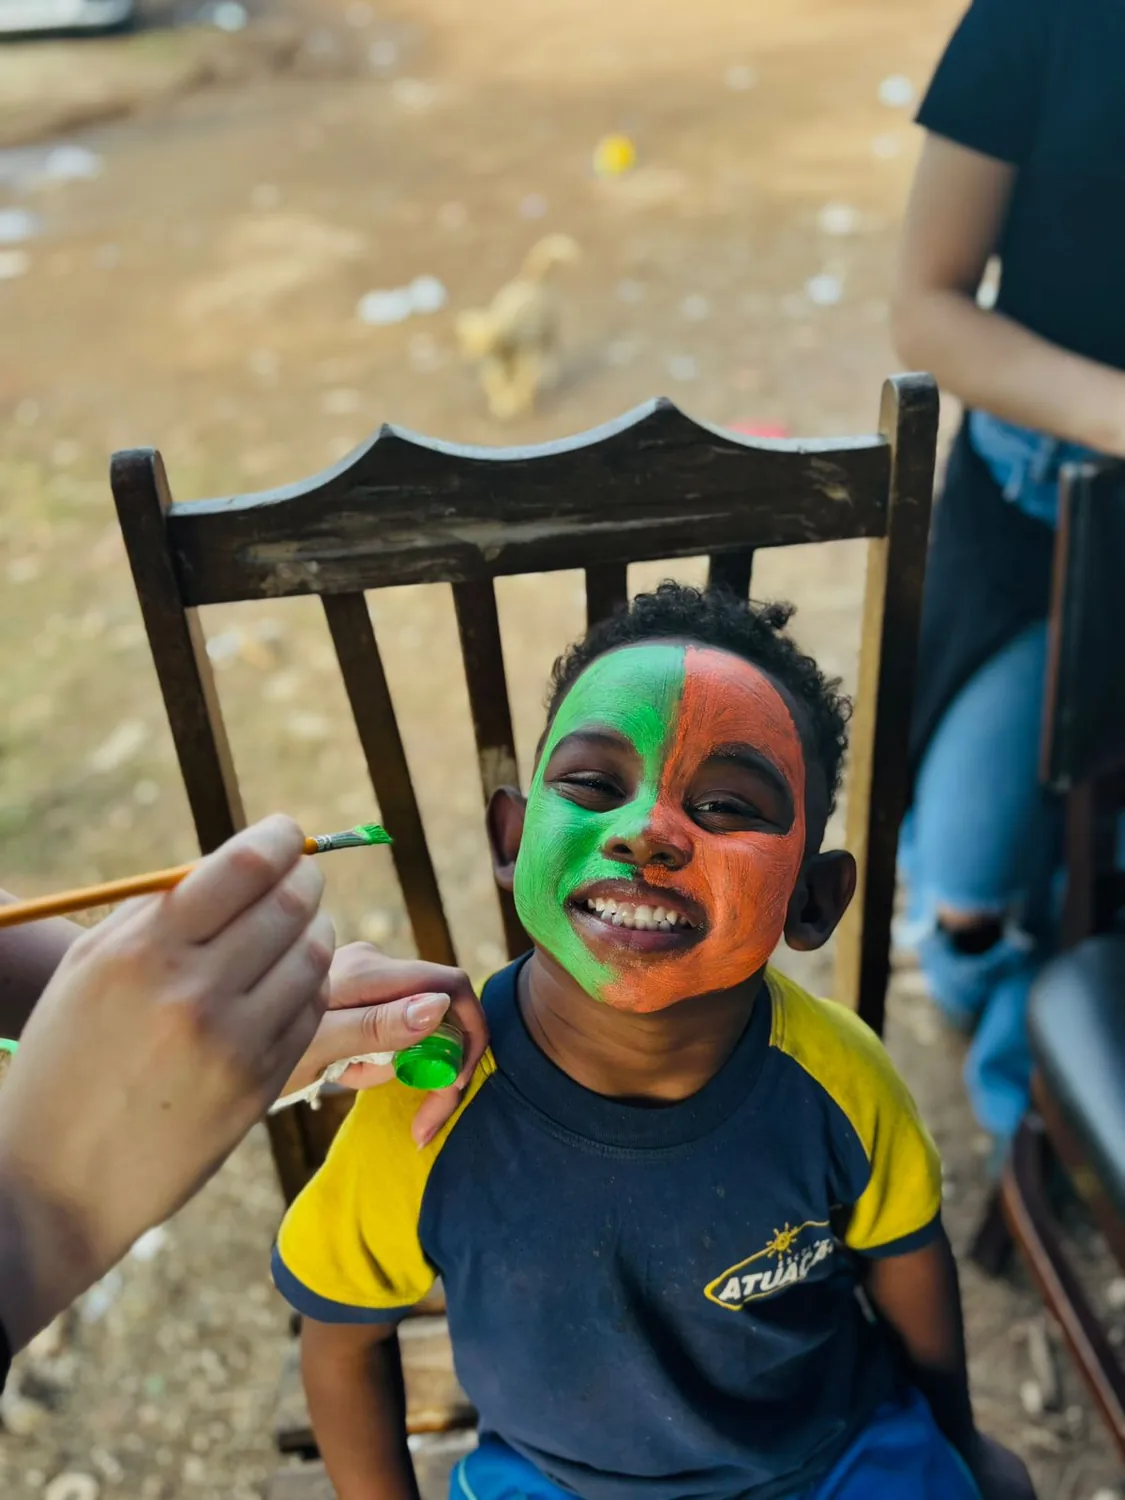
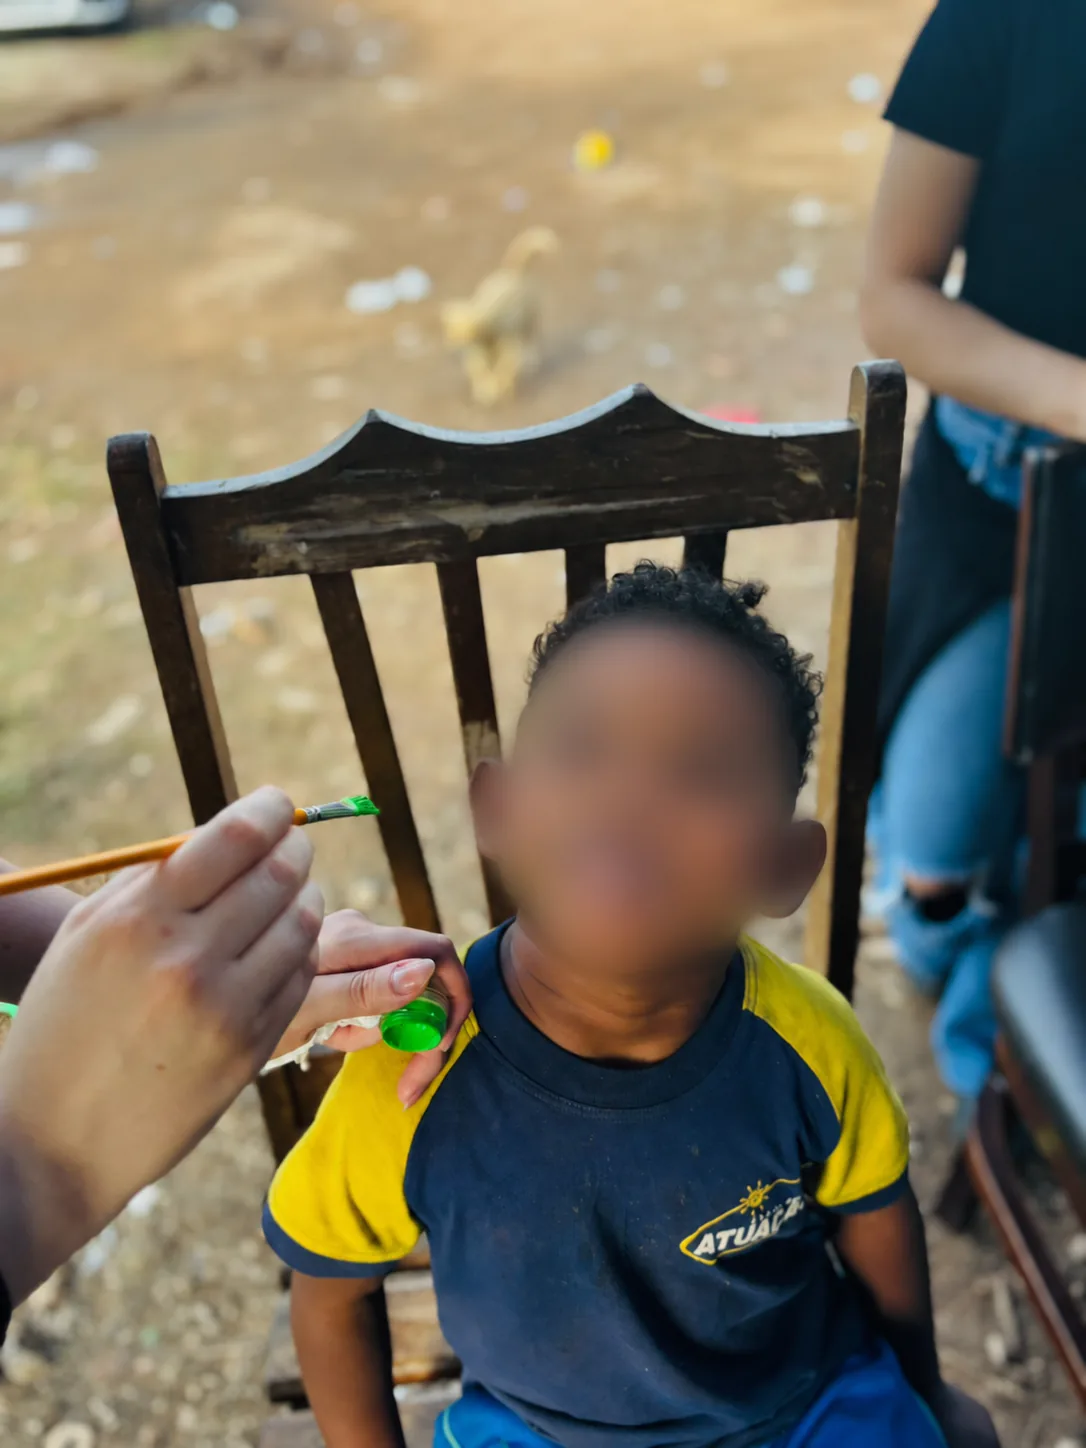
Preview: Playground — blurred-face version of the face-paint photo; stronger chip tracking
- swapped volunteering-02 for the disclosure-safe version (child's face blurred) from Drive
- also removed the Teia do Bem Meet-screenshot tile (8 people's names legible — flagged in an earlier review)
- .chip.is-current now a soft accent-fill pill with a .38s transition so the auto-scroll's current category reads clearly; flow speed 46 -> 72 px/s and the 'current' reference line moved to 42% so the chip changes category at a visible pace
- ?v=20260908x

Changed region(s): [[0.4254, 0.404, 0.7597, 0.6837], [0.6685, 0.808, 0.7293, 0.8391], [0.6381, 0.8391, 0.6685, 0.8702]]

diff --git a/index.html b/index.html
@@ -28,7 +28,7 @@
 <link href="https://fonts.googleapis.com/css2?family=Caveat:wght@500;600&family=Fraunces:opsz,wght@9..144,400;9..144,500;9..144,600&family=Inter:wght@400;500;600&display=swap" rel="stylesheet">
 <link rel="stylesheet" href="https://cdn.jsdelivr.net/gh/devicons/devicon@v2.16.0/devicon.min.css">
 
-<link rel="stylesheet" href="style.css?v=20260908w">
+<link rel="stylesheet" href="style.css?v=20260908x">
 
 <script type="application/ld+json">
 {
@@ -548,10 +548,6 @@
       <span class="art__frame"><img src="assets/images/playground/volunteering/volunteering-03.webp" alt="Giovanna Ribas volunteering at a PUCPR event" loading="lazy" width="1500" height="844"></span>
       <span class="art__cap" data-i18n="pg_vol">Volunteering &amp; events <i>Community</i></span>
     </button>
-    <button class="art" type="button" data-kind="community" data-title="TEIA do Bem — social media" data-cat="Volunteering &amp; events" data-full="assets/images/playground/volunteering/volunteering-01.webp">
-      <span class="art__frame"><img src="assets/images/playground/volunteering/volunteering-01.webp" alt="Volunteering material Giovanna Ribas worked on" loading="lazy" width="1500" height="654"></span>
-      <span class="art__cap" data-i18n="pg_vol">Volunteering &amp; events <i>Community</i></span>
-    </button>
     <button class="art" type="button" data-kind="community" data-title="Volunteering &amp; events" data-cat="Volunteering &amp; events" data-full="assets/images/playground/volunteering/volunteering-02.webp">
       <span class="art__frame"><img src="assets/images/playground/volunteering/volunteering-02.webp" alt="Giovanna Ribas at a volunteering event" loading="lazy" width="1125" height="1500"></span>
       <span class="art__cap" data-i18n="pg_vol">Volunteering &amp; events <i>Community</i></span>
@@ -758,6 +754,6 @@
   </div>
 </div>
 
-<script src="script.js?v=20260908w"></script>
+<script src="script.js?v=20260908x"></script>
 </body>
 </html>

diff --git a/style.css b/style.css
@@ -829,11 +829,18 @@ p:last-child { margin-bottom: 0; }
   font: 500 12px/1 var(--mono); letter-spacing: .04em;
   padding: 8px 13px; border: 1px solid var(--line); border-radius: 999px;
   background: var(--paper); color: var(--ink-2); cursor: pointer;
-  transition: border-color .2s ease, color .2s ease, background .2s ease;
+  transition: background .38s ease, border-color .38s ease, color .38s ease, transform .25s ease;
 }
-.chip:hover, .chip.is-current { border-color: var(--accent); color: var(--accent); }
-.chip.is-on { background: var(--ink); color: var(--paper); border-color: var(--ink); }
-.chip.is-on.is-current { border-color: var(--ink); color: var(--paper); }
+.chip:hover { border-color: var(--accent); color: var(--accent); }
+/* the auto-scroll flow is currently passing this category */
+.chip.is-current {
+  background: color-mix(in srgb, var(--accent) 15%, var(--paper));
+  border-color: color-mix(in srgb, var(--accent) 45%, var(--line));
+  color: var(--accent);
+  transform: translateY(-1px);
+}
+/* user-locked category */
+.chip.is-on { background: var(--ink); color: var(--paper); border-color: var(--ink); transform: none; }
 
 /* auto-scrolling one-row gallery — flows on its own, hover / focus to pause, click a category to lock it */
 .gallery__scroller {

diff --git a/script.js b/script.js
@@ -860,7 +860,7 @@
       track.appendChild(c);
     });
 
-    var SPEED = 46;                 /* px / second */
+    var SPEED = 72;                 /* px / second */
     var x = 0, half = 1, layout = [];
     var mode = "all", filterKind = null;
     var hoverPaused = false, focusPaused = false, userPaused = false;
@@ -893,7 +893,7 @@
 
     function currentKind() {
       if (!layout.length) return null;
-      var ref = ((-x) + scroller.clientWidth * 0.16) % half;
+      var ref = ((-x) + scroller.clientWidth * 0.42) % half;
       if (ref < 0) ref += half;
       var k = layout[0].kind;
       for (var i = 0; i < layout.length && layout[i].left <= ref; i++) k = layout[i].kind;
